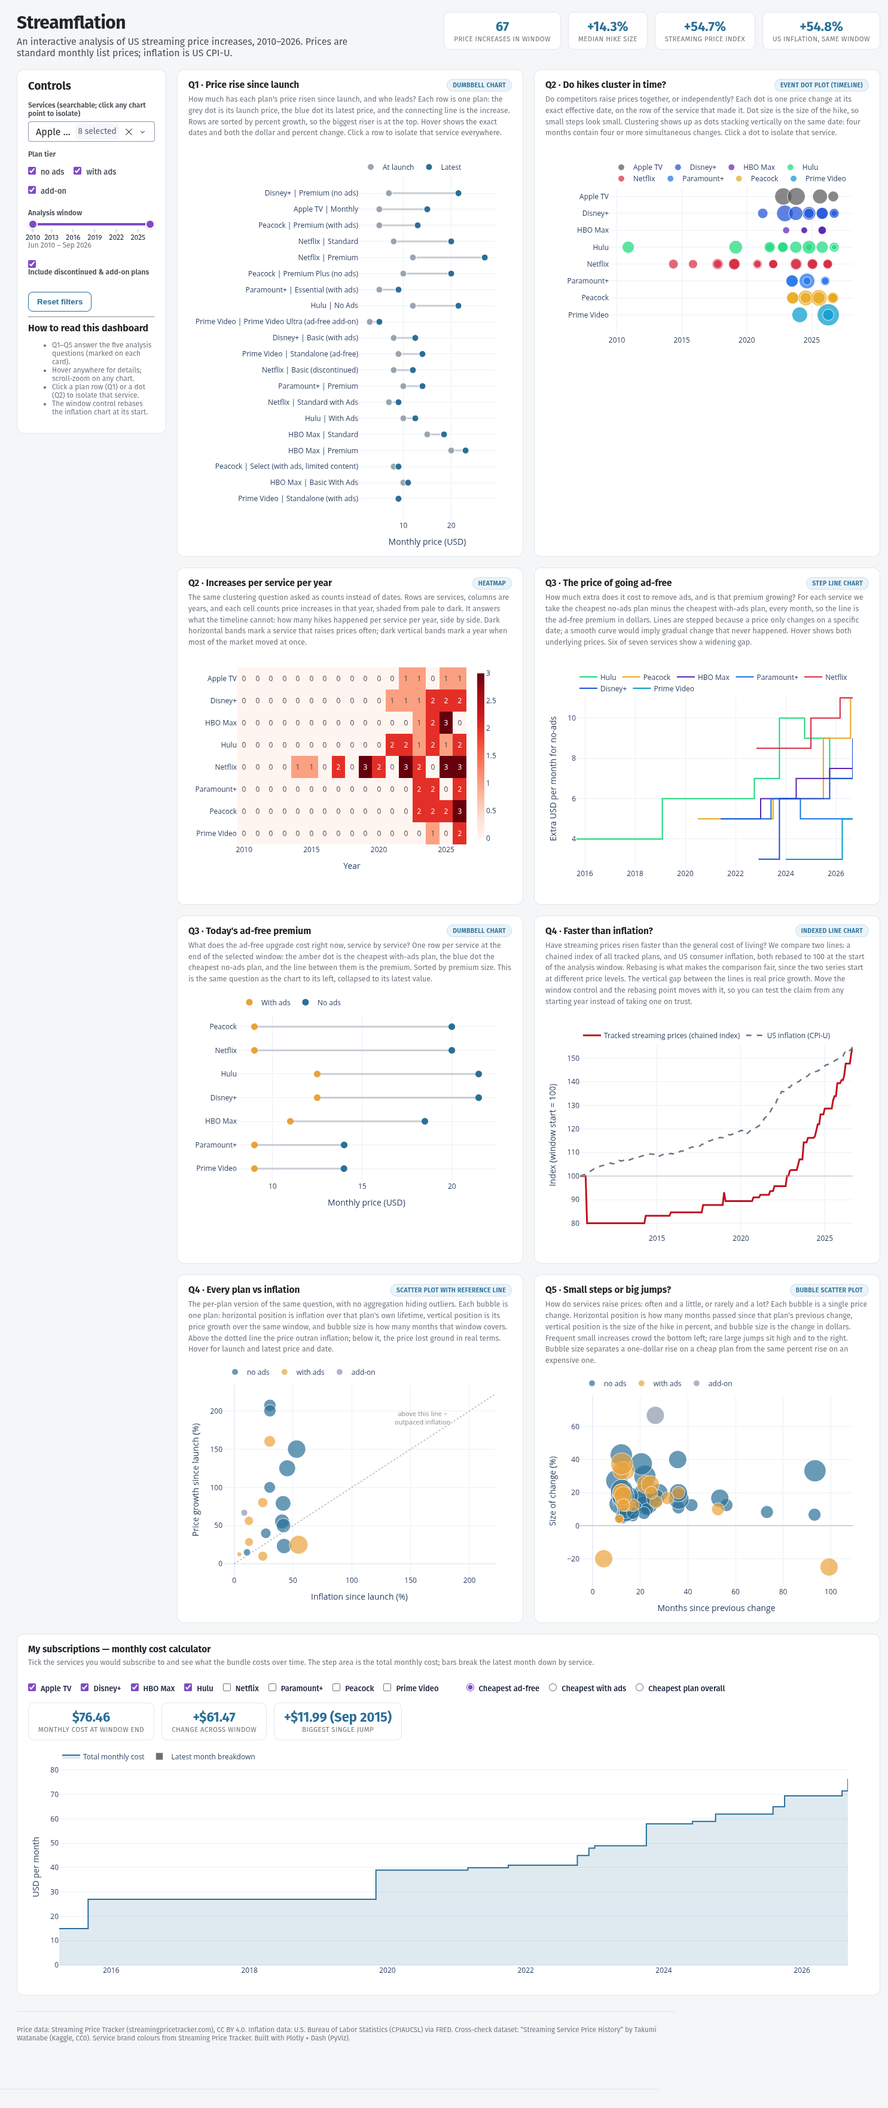
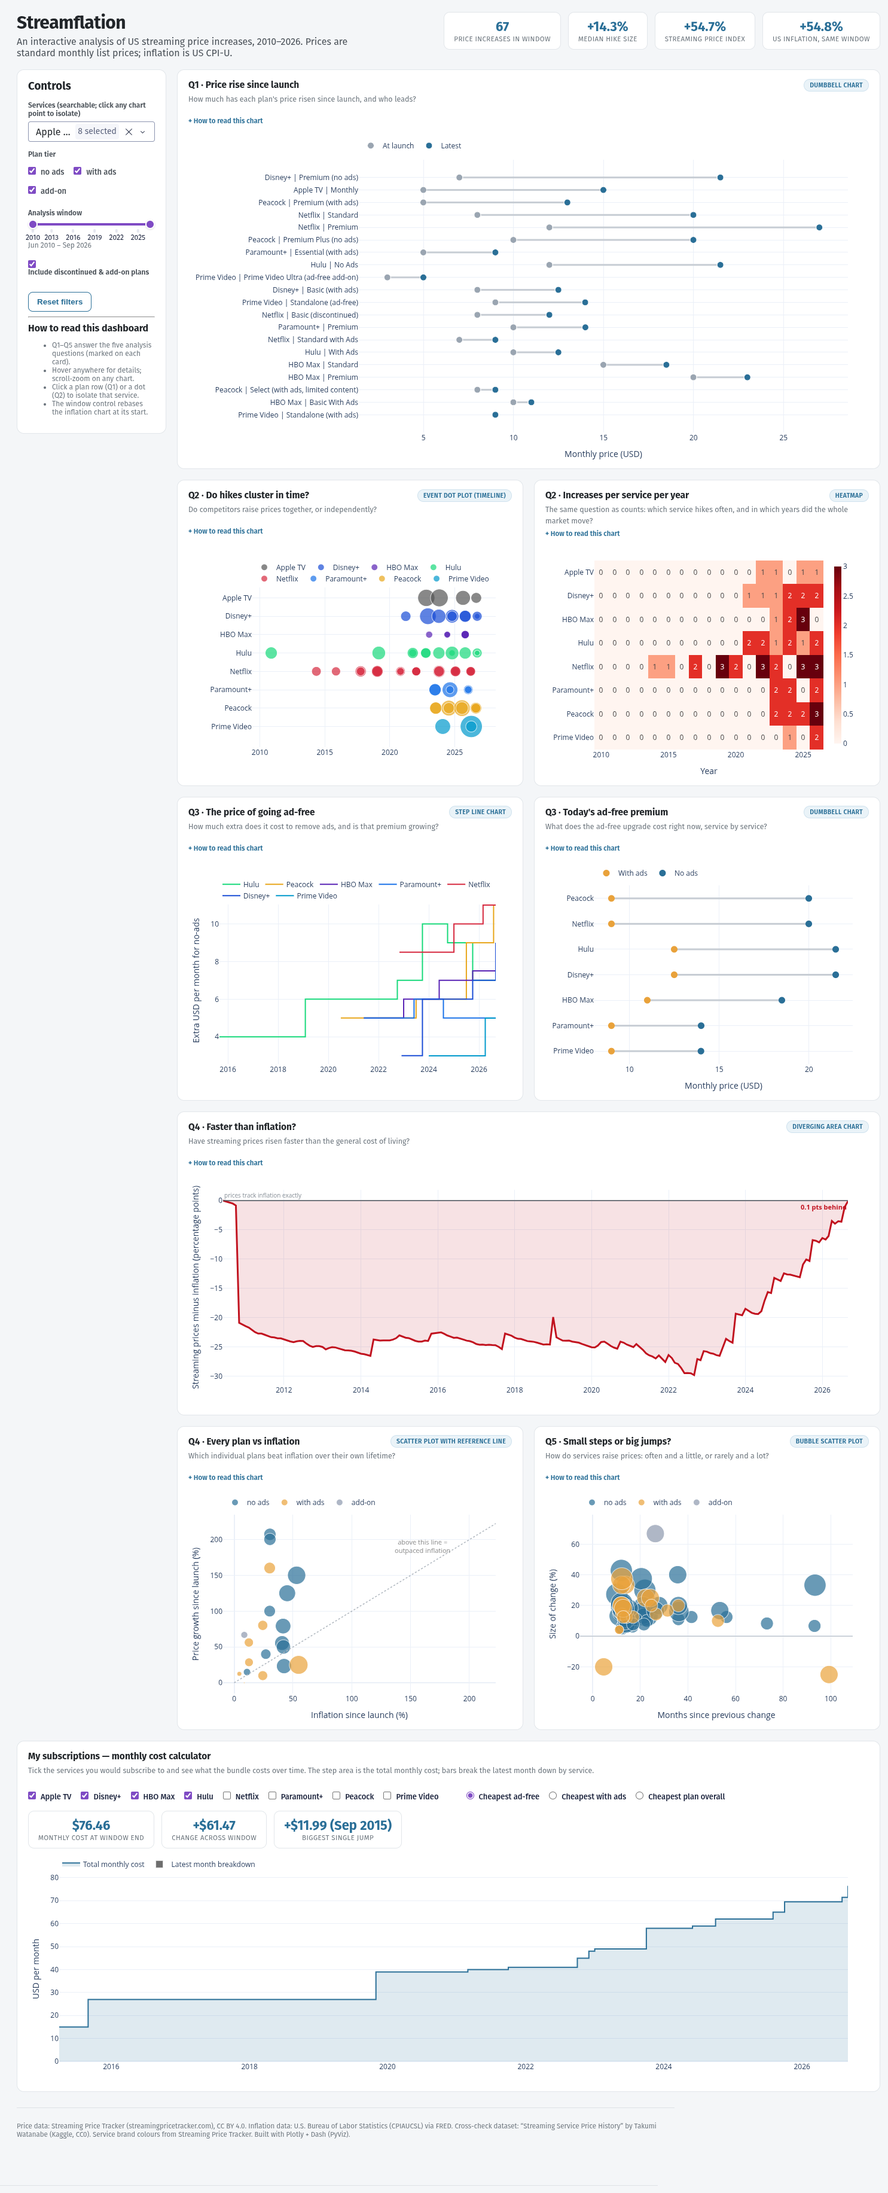
Address preview feedback: layout, collapsible text, clearer Q4
- Collapse chart explanations behind a 'How to read this chart' toggle,
  leaving a one-line question visible, so descriptions no longer dominate.
- Unify every chart to one height and let Q1 span both columns; remove
  the uneven card height that left dead space under Q2. Q4a also spans
  both columns, Q4b pairs with Q5, so all five grid rows are full.
- Replace the two rebased index lines in Q4 with a single diverging area
  chart of streaming minus inflation: 0 = parity, above = prices ahead,
  below = behind. One number at the end of the line states the answer
  ('31.4 pts ahead'), and the tooltip names the direction in words
  instead of reporting a negative 'ahead by'.
- Reorder cards so the sequence runs Q1 to Q5.

diff --git a/app/assets/style.css b/app/assets/style.css
@@ -47,9 +47,11 @@ body {
 .grid {
   flex: 1; display: grid; grid-template-columns: 1fr 1fr; gap: 18px; min-width: 0;
 }
+/* full-width cards (dense categorical axes need the room) */
+.grid > .span2 { grid-column: 1 / -1; }
 .card {
   background: #fff; border: 1px solid #e2e6ea; border-radius: 12px;
-  padding: 14px 18px 6px; min-width: 0;
+  padding: 14px 18px 6px; min-width: 0; display: flex; flex-direction: column;
 }
 .card h3 { margin: 2px 0 2px; font-size: 15.5px; }
 .card-head {
@@ -65,6 +67,21 @@ body {
 .card .q {
   margin: 4px 0 2px; font-size: 12.5px; color: #6c757d;
   line-height: 1.5; min-height: 34px;
+}
+
+/* collapsible "how to read this chart" — keeps the card compact by default */
+.more { margin: 0 0 6px; }
+.more summary {
+  cursor: pointer; font-size: 11.5px; font-weight: 600; color: #2A6F97;
+  padding: 2px 0; list-style: none; user-select: none;
+}
+.more summary::-webkit-details-marker { display: none; }
+.more summary::before { content: "+ "; font-weight: 700; }
+.more[open] summary::before { content: "− "; }
+.more summary:hover { text-decoration: underline; }
+.details-body {
+  margin: 4px 0 0; font-size: 12.5px; color: #6c757d; line-height: 1.5;
+  border-left: 2px solid #CFE2EE; padding-left: 10px;
 }
 
 /* calculator */

diff --git a/app/app.py b/app/app.py
@@ -13,7 +13,7 @@ from dash import Input, Output, State, callback, dcc, html, no_update
 import pandas as pd
 
 from figures import (TIER_COLORS, fig_calculator, fig_dumbbell, fig_gap_dumbbell,
-                     fig_gap_lines, fig_growth_vs_inflation, fig_heatmap, fig_index,
+                     fig_gap_lines, fig_growth_vs_inflation, fig_heatmap, fig_inflation_gap,
                      fig_hike_scatter, fig_timeline, load_data)
 
 DATA = load_data()
@@ -27,15 +27,23 @@ server = app.server
 GRAPH_CONFIG = {"displaylogo": False, "scrollZoom": True, "modeBarButtonsToRemove": ["lasso2d", "select2d"]}
 
 
-def card(title: str, chart_type: str, question: str, graph_id: str) -> html.Div:
-    return html.Div(className="card", children=[
+def card(title: str, chart_type: str, question: str, graph_id: str, details: str | None = None,
+         span: int = 1) -> html.Div:
+    """One analysis card: visible question line, optional collapsible 'how to read' text."""
+    children = [
         html.Div(className="card-head", children=[
             html.H3(title),
             html.Span(chart_type, className="badge"),
         ]),
         html.P(question, className="q"),
-        dcc.Graph(id=graph_id, config=GRAPH_CONFIG),
-    ])
+    ]
+    if details:
+        children.append(html.Details(className="more", children=[
+            html.Summary("How to read this chart"),
+            html.P(details, className="details-body"),
+        ], open=False))
+    children.append(dcc.Graph(id=graph_id, config=GRAPH_CONFIG))
+    return html.Div(className=f"card span{span}", children=children)
 
 
 app.layout = html.Div(className="page", children=[
@@ -97,66 +105,72 @@ app.layout = html.Div(className="page", children=[
 
         # ---------------- question grid ----------------
         html.Div(className="grid", children=[
+            # Q1 is full width: 20 plan rows on a categorical axis need the room,
+            # and a half-width card would stretch its neighbour to a useless height.
             card("Q1 · Price rise since launch", "Dumbbell chart",
-                 "How much has each plan's price risen since launch, and who leads? "
-                 "Each row is one plan: the grey dot is its launch price, the blue dot "
-                 "its latest price, and the connecting line is the increase. Rows are "
-                 "sorted by percent growth, so the biggest riser is at the top. Hover "
-                 "shows the exact dates and both the dollar and percent change. Click a "
-                 "row to isolate that service everywhere.", "fig-q1"),
+                 "How much has each plan's price risen since launch, and who leads?",
+                 "fig-q1",
+                 details=("Each row is one plan. The grey dot is its launch price, the blue dot "
+                          "its latest price, and the connecting line is the increase. Rows are "
+                          "sorted by percent growth, so the biggest riser is at the top. Hover for "
+                          "exact dates plus the dollar and percent change; click a row to isolate "
+                          "that service everywhere."),
+                 span=2),
             card("Q2 · Do hikes cluster in time?", "Event dot plot (timeline)",
-                 "Do competitors raise prices together, or independently? Each dot is one "
-                 "price change at its exact effective date, on the row of the service that "
-                 "made it. Dot size is the size of the hike, so small steps look small. "
-                 "Clustering shows up as dots stacking vertically on the same date: four "
-                 "months contain four or more simultaneous changes. Click a dot to isolate "
-                 "that service.", "fig-q2a"),
+                 "Do competitors raise prices together, or independently?",
+                 "fig-q2a",
+                 details=("Each dot is one price change at its exact effective date, on the row of "
+                          "the service that made it. Dot size is the size of the hike. Clustering "
+                          "shows up as dots stacking vertically on the same date: four months "
+                          "contain four or more simultaneous changes. Click a dot to isolate that "
+                          "service.")),
             card("Q2 · Increases per service per year", "Heatmap",
-                 "The same clustering question asked as counts instead of dates. Rows are "
-                 "services, columns are years, and each cell counts price increases in that "
-                 "year, shaded from pale to dark. It answers what the timeline cannot: how "
-                 "many hikes happened per service per year, side by side. Dark horizontal "
-                 "bands mark a service that raises prices often; dark vertical bands mark a "
-                 "year when most of the market moved at once.", "fig-q2b"),
+                 "The same question as counts: which service hikes often, and in which years "
+                 "did the whole market move?",
+                 "fig-q2b",
+                 details=("Rows are services, columns are years, and each cell counts price "
+                          "increases, shaded from pale to dark. Dark horizontal bands mark a service "
+                          "that raises prices often; dark vertical bands mark a year when most of "
+                          "the market moved at once.")),
             card("Q3 · The price of going ad-free", "Step line chart",
-                 "How much extra does it cost to remove ads, and is that premium growing? "
-                 "For each service we take the cheapest no-ads plan minus the cheapest "
-                 "with-ads plan, every month, so the line is the ad-free premium in dollars. "
-                 "Lines are stepped because a price only changes on a specific date; a "
-                 "smooth curve would imply gradual change that never happened. Hover shows "
-                 "both underlying prices. Six of seven services show a widening gap.", "fig-q3a"),
+                 "How much extra does it cost to remove ads, and is that premium growing?",
+                 "fig-q3a",
+                 details=("For each service, the cheapest no-ads plan minus the cheapest with-ads "
+                          "plan, every month, so the line is the ad-free premium in dollars. Lines "
+                          "are stepped because a price only changes on a specific date; a smooth "
+                          "curve would imply gradual change that never happened. Six of seven "
+                          "services show a widening gap.")),
             card("Q3 · Today's ad-free premium", "Dumbbell chart",
-                 "What does the ad-free upgrade cost right now, service by service? One row "
-                 "per service at the end of the selected window: the amber dot is the "
-                 "cheapest with-ads plan, the blue dot the cheapest no-ads plan, and the "
-                 "line between them is the premium. Sorted by premium size. This is the "
-                 "same question as the chart to its left, collapsed to its latest value.",
-                 "fig-q3b"),
-            card("Q4 · Faster than inflation?", "Indexed line chart",
-                 "Have streaming prices risen faster than the general cost of living? We "
-                 "compare two lines: a chained index of all tracked plans, and US consumer "
-                 "inflation, both rebased to 100 at the start of the analysis window. "
-                 "Rebasing is what makes the comparison fair, since the two series start at "
-                 "different price levels. The vertical gap between the lines is real price "
-                 "growth. Move the window control and the rebasing point moves with it, so "
-                 "you can test the claim from any starting year instead of taking one on "
-                 "trust.", "fig-q4a"),
+                 "What does the ad-free upgrade cost right now, service by service?",
+                 "fig-q3b",
+                 details=("One row per service at the end of the selected window: the amber dot is "
+                          "the cheapest with-ads plan, the blue dot the cheapest no-ads plan, and the "
+                          "line between them is the premium. This is the chart on the left collapsed "
+                          "to its latest value.")),
+            card("Q4 · Faster than inflation?", "Diverging area chart",
+                 "Have streaming prices risen faster than the general cost of living?",
+                 "fig-q4a",
+                 details=("One line, one meaning. The chart shows streaming prices minus inflation, "
+                          "cumulatively from the start of the analysis window. At zero the two rose "
+                          "together; above zero streaming outpaced inflation; below zero it lagged. "
+                          "Move the analysis window and the counting restarts from the new date, so "
+                          "you can test whether the answer depends on when you start."),
+                 span=2),
             card("Q4 · Every plan vs inflation", "Scatter plot with reference line",
-                 "The per-plan version of the same question, with no aggregation hiding "
-                 "outliers. Each bubble is one plan: horizontal position is inflation over "
-                 "that plan's own lifetime, vertical position is its price growth over the "
-                 "same window, and bubble size is how many months that window covers. Above "
-                 "the dotted line the price outran inflation; below it, the price lost "
-                 "ground in real terms. Hover for launch and latest price and date.",
-                 "fig-q4b"),
+                 "Which individual plans beat inflation over their own lifetime?",
+                 "fig-q4b",
+                 details=("Each bubble is one plan: horizontal position is inflation over that "
+                          "plan's own lifetime, vertical position is its price growth over the same "
+                          "window, and bubble size is how many months the window covers. Above the "
+                          "dotted line the price outran inflation; below it the price lost ground in "
+                          "real terms.")),
             card("Q5 · Small steps or big jumps?", "Bubble scatter plot",
-                 "How do services raise prices: often and a little, or rarely and a lot? Each "
-                 "bubble is a single price change. Horizontal position is how many months "
-                 "passed since that plan's previous change, vertical position is the size of "
-                 "the hike in percent, and bubble size is the change in dollars. Frequent "
-                 "small increases crowd the bottom left; rare large jumps sit high and to the "
-                 "right. Bubble size separates a one-dollar rise on a cheap plan from the "
-                 "same percent rise on an expensive one.", "fig-q5"),
+                 "How do services raise prices: often and a little, or rarely and a lot?",
+                 "fig-q5",
+                 details=("Each bubble is a single price change. Horizontal position is months since "
+                          "that plan's previous change, vertical position is the hike in percent, and "
+                          "bubble size is the change in dollars. Frequent small increases crowd the "
+                          "bottom left; rare large jumps sit high and right.")),
         ]),
     ]),
 
@@ -263,7 +277,7 @@ def update_all(services, tiers, window, advanced):
             fig_hike_scatter(ev_w),
             fig_gap_lines(gap_w, DATA["service_colors"]),
             fig_gap_dumbbell(gap_w),
-            fig_index(monthly, market, w0),
+            fig_inflation_gap(monthly, market, w0),
             fig_growth_vs_inflation(summary, monthly),
             )
 

diff --git a/app/figures.py b/app/figures.py
@@ -21,7 +21,11 @@ TIER_COLORS = {"no ads": "#2A6F97", "with ads": "#E9A23B", "add-on": "#8D99AE"}
 # Fallback service palette (overridden by the source's own brand colours below).
 SERVICE_FALLBACK = px.colors.qualitative.Set2
 
-BASE_LAYOUT = dict(template="plotly_white", margin=dict(l=40, r=20, t=30, b=44), height=420)
+BASE_LAYOUT = dict(template="plotly_white", margin=dict(l=40, r=20, t=30, b=44), height=400)
+
+# One height for every chart that sits in a paired grid row, so no card is
+# stretched to match a taller neighbour (which used to leave dead space).
+CHART_H = 400
 
 
 def load_data() -> dict[str, pd.DataFrame]:
@@ -84,7 +88,7 @@ def fig_dumbbell(summary: pd.DataFrame) -> go.Figure:
                            "Tier: %{customdata[1]}<extra></extra>")))
     return _layout(fig, xaxis_title="Monthly price (USD)", yaxis_title=None,
                    yaxis=dict(categoryorder="array", categoryarray=order),
-                   height=max(360, 30 * len(df) + 90), showlegend=True)
+                   height=min(560, max(CHART_H, 26 * len(df) + 80)), showlegend=True)
 
 
 # ---------------------------------------------------------------------------
@@ -107,7 +111,7 @@ def fig_timeline(events: pd.DataFrame, service_colors: dict[str, str]) -> go.Fig
                             "%{x|%d %b %Y}: $%{customdata[2]:.2f} → $%{customdata[1]:.2f}<br>"
                             "Change: %{customdata[3]:+.2f} USD (%{customdata[4]:+.1f}%)"
                             "<extra></extra>")
-    return _layout(fig, height=380, showlegend=True)
+    return _layout(fig, height=CHART_H, showlegend=True)
 
 
 # ---------------------------------------------------------------------------
@@ -125,7 +129,7 @@ def fig_heatmap(events: pd.DataFrame) -> go.Figure:
                     labels=dict(x="Year", y="", color=""))
     fig.update_traces(hovertemplate="%{y}<br>%{x}: %{z} price increase(s)<extra></extra>")
     fig.update_layout(coloraxis_colorbar=dict(thickness=12))
-    return _layout(fig, height=380)
+    return _layout(fig, height=CHART_H)
 
 
 # ---------------------------------------------------------------------------
@@ -143,7 +147,7 @@ def fig_gap_lines(gap: pd.DataFrame, service_colors: dict[str, str]) -> go.Figur
         tr.hovertemplate = ("<b>%{fullData.name}</b><br>%{x|%b %Y}: +%{y:.2f} USD to go ad-free<br>"
                             "with ads $%{customdata[0]:.2f} → no ads $%{customdata[1]:.2f} "
                             "(+%{customdata[2]:.1f}%)<extra></extra>")
-    return _layout(fig, height=420, showlegend=True)
+    return _layout(fig, height=CHART_H, showlegend=True)
 
 
 # ---------------------------------------------------------------------------
@@ -175,29 +179,66 @@ def fig_gap_dumbbell(gap: pd.DataFrame) -> go.Figure:
                              hovertemplate="<b>%{y}</b> — no ads $%{x:.2f}<br>"
                                            "Ad-free premium: +$%{customdata[0]:.2f} "
                                            "(+%{customdata[1]:.1f}%)<extra></extra>"))
-    return _layout(fig, xaxis_title="Monthly price (USD)", height=380,
+    return _layout(fig, xaxis_title="Monthly price (USD)", height=CHART_H,
                    showlegend=True)
 
 
 # ---------------------------------------------------------------------------
 # Q4a — price index vs inflation, rebased at the window start
 # ---------------------------------------------------------------------------
-def fig_index(monthly: pd.DataFrame, market: pd.DataFrame, start: pd.Timestamp) -> go.Figure:
+def fig_inflation_gap(monthly: pd.DataFrame, market: pd.DataFrame, start: pd.Timestamp) -> go.Figure:
+    """Cumulative gap between streaming prices and inflation, in percentage points.
+
+    Both series are rebased to the window start and then divided, so a single
+    line carries the whole answer: 0 = prices rose exactly with inflation,
+    above 0 = streaming outpaced it, below 0 = streaming lagged it.
+    """
+    s = market[market["month"] >= start]
+    if s.empty or len(s) < 2:
+        return empty_fig("Window is too short - move the analysis window")
+
+    stream_idx = s["market_index"] / float(s["market_index"].iloc[0]) * 100
+    cpi_idx = s["cpi_index"] / float(s["cpi_index"].iloc[0]) * 100
+    gap = (stream_idx / cpi_idx - 1) * 100
+    last = float(gap.iloc[-1])
+
+    template = (
+        "<b>%{x|%b %Y}</b><br>"
+        "Streaming prices %{customdata[2]}<br>"
+        "%{y:+.1f} percentage points versus inflation<br>"
+        "Streaming index %{customdata[0]:.1f} vs inflation %{customdata[1]:.1f} "
+        "(window start = 100)<extra></extra>"
+    )
+
     fig = go.Figure()
-    for col, name, style in (("market_index", "Tracked streaming prices (chained index)",
-                              dict(color="#C1121F", width=3)),
-                             ("cpi_index", "US inflation (CPI-U)",
-                              dict(color="#6C757D", width=2.5, dash="dash"))):
-        s = market[market["month"] >= start]
-        if s.empty:
-            return empty_fig("Window starts after the data ends")
-        base = float(s[col].iloc[0])
-        fig.add_trace(go.Scatter(x=s["month"], y=s[col] / base * 100, mode="lines",
-                                 name=name, line=style,
-                                 hovertemplate="%{x|%b %Y}: %{y:.1f}<extra>" + name + "</extra>"))
-    fig.add_hline(y=100, line=dict(color="#ADB5BD", width=1))
-    return _layout(fig, yaxis_title="Index (window start = 100)",
-                   height=420, showlegend=True)
+    fig.add_trace(go.Scatter(
+        x=s["month"],
+        y=gap,
+        mode="lines",
+        name="Streaming minus inflation",
+        line=dict(color="#C1121F", width=3),
+        fill="tozeroy",
+        fillcolor="rgba(193,18,31,0.12)",
+        customdata=np.stack([stream_idx.round(1), cpi_idx.round(1),
+                             np.where(gap >= 0, "ahead of inflation", "behind inflation")], axis=-1),
+        hovertemplate=template,
+    ))
+    fig.add_hline(y=0, line=dict(color="#495057", width=1.5))
+    fig.add_annotation(
+        x=s["month"].iloc[-1], y=last,
+        text=f"<b>{abs(last):.1f} pts {'ahead' if last >= 0 else 'behind'}</b>",
+        showarrow=False, xanchor="right",
+        yanchor="bottom" if last >= 0 else "top",
+        font=dict(size=11, color="#C1121F"),
+    )
+    fig.add_annotation(
+        x=s["month"].iloc[0], y=0,
+        text="prices track inflation exactly",
+        showarrow=False, xanchor="left", yanchor="bottom",
+        font=dict(size=10, color="#868E96"),
+    )
+    return _layout(fig, yaxis_title="Streaming prices minus inflation (percentage points)",
+                   height=CHART_H, showlegend=False)
 
 
 # ---------------------------------------------------------------------------
@@ -229,7 +270,7 @@ def fig_growth_vs_inflation(summary: pd.DataFrame, monthly: pd.DataFrame) -> go.
                             "$%{customdata[1]:.2f} (%{customdata[3]}) → "
                             "$%{customdata[2]:.2f} (%{customdata[4]})<extra></extra>")
     return _layout(fig, xaxis_title="Inflation since launch (%)",
-                   yaxis_title="Price growth since launch (%)", height=420, showlegend=True)
+                   yaxis_title="Price growth since launch (%)", height=CHART_H, showlegend=True)
 
 
 # ---------------------------------------------------------------------------
@@ -253,7 +294,7 @@ def fig_hike_scatter(events: pd.DataFrame) -> go.Figure:
                             "after %{x:.1f} months<extra></extra>")
     fig.add_hline(y=0, line=dict(color="#ADB5BD", width=1))
     return _layout(fig, xaxis_title="Months since previous change",
-                   yaxis_title="Size of change (%)", height=420, showlegend=True)
+                   yaxis_title="Size of change (%)", height=CHART_H, showlegend=True)
 
 
 # ---------------------------------------------------------------------------
@@ -286,4 +327,4 @@ def fig_calculator(monthly: pd.DataFrame, services: list[str], tier_mode: str,
                          name="Latest month breakdown", yaxis="y2", opacity=0.85,
                          hovertemplate="%{x}: $%{y:.2f} / month<extra></extra>"))
     fig.update_layout(yaxis2=dict(overlaying="y", side="right", visible=False, showgrid=False))
-    return _layout(fig, yaxis_title="USD per month", height=420)
+    return _layout(fig, yaxis_title="USD per month", height=CHART_H)
